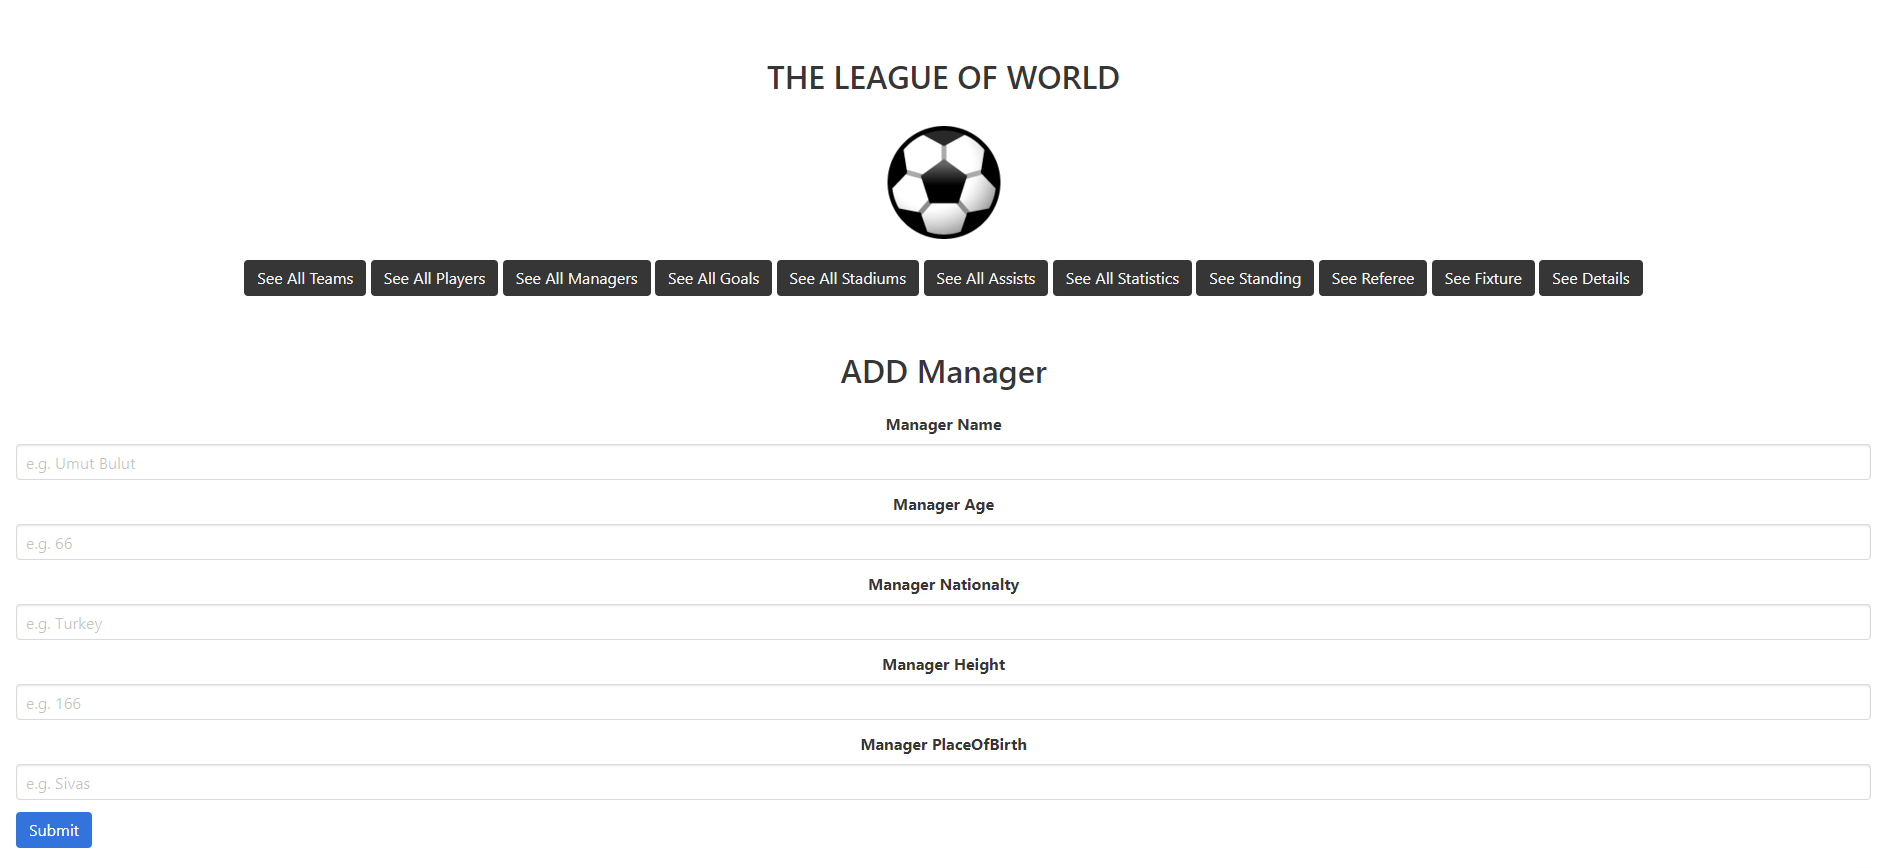
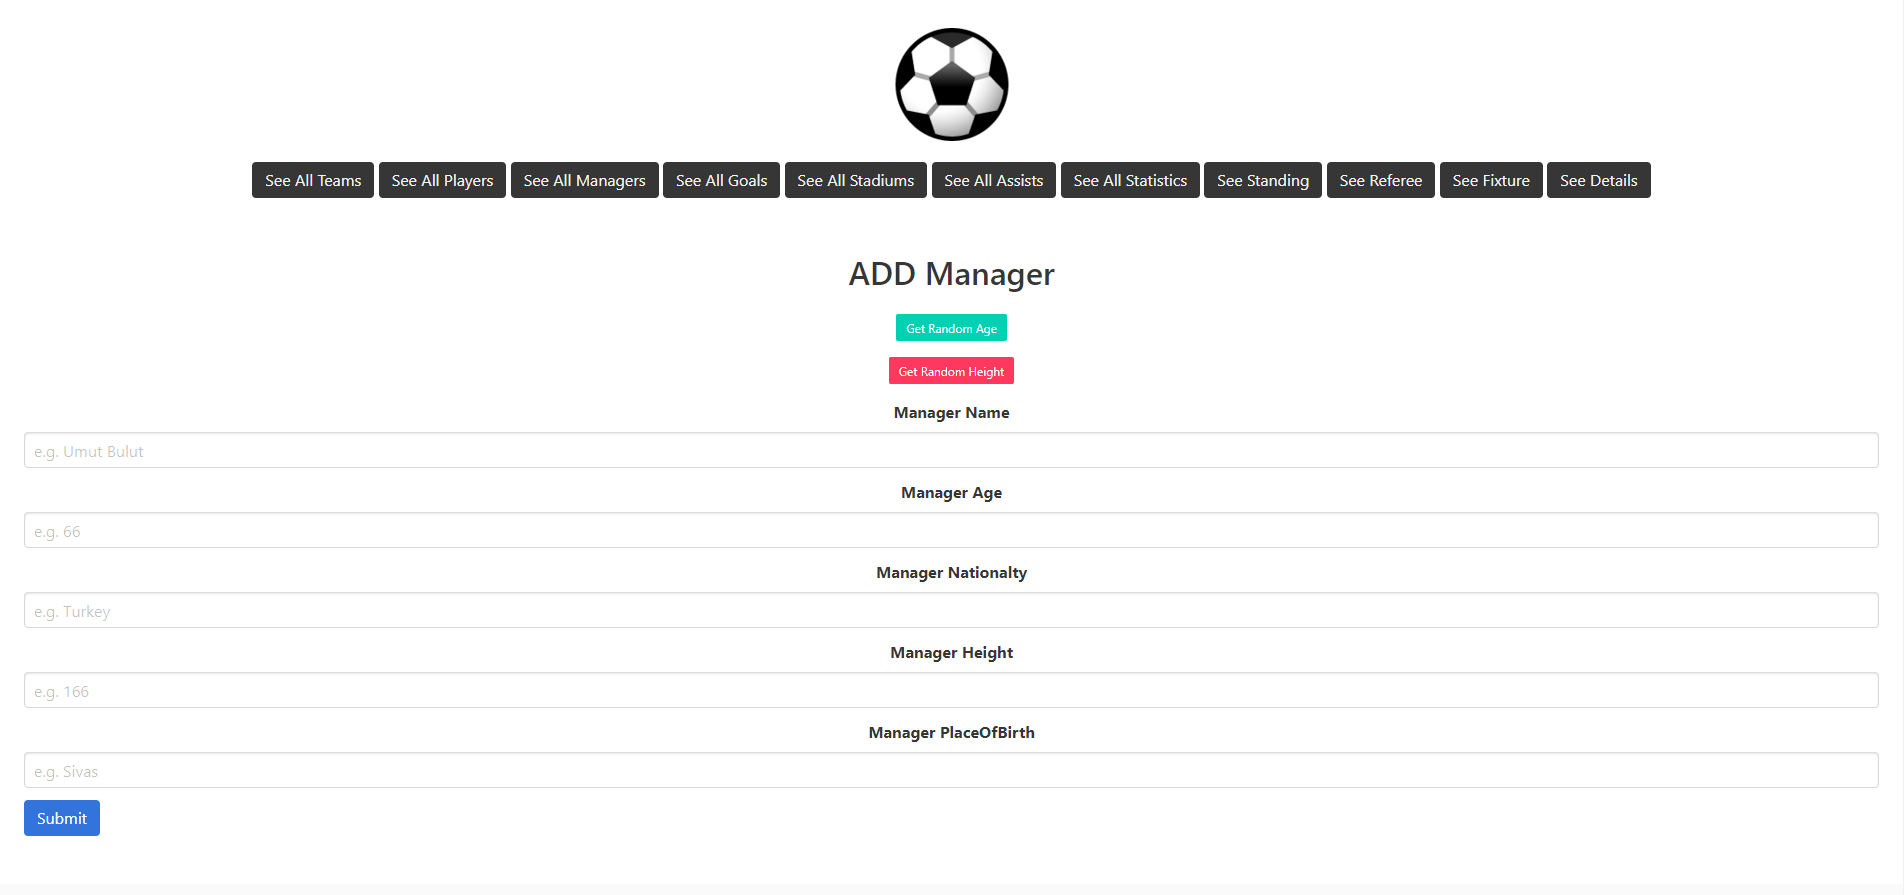
Some fixes

diff --git a/templates/add_player.html b/templates/add_player.html
@@ -16,6 +16,10 @@
 <br><br>
 <h1 class="title">ADD PLAYER</h1>
 
+<button class="button is-primary is-small" onclick="document.getElementById('Age').innerHTML = getRndInteger(15,55)">Get Random Age</button>
+<p id="Age"></p> 
+<button class="button is-danger is-small " onclick="document.getElementById('Height').innerHTML = getRndInteger(125,225)">Get Random Height</button>
+<p id="Height"></p>
 
 <form method='POST'>
 <div class="field">
@@ -79,4 +83,11 @@
   </div>
 </div>
 </form>
+
+
+<script>
+  function getRndInteger(min, max) {
+    return Math.floor(Math.random() * (max - min + 1) ) + min;
+  }
+  </script>
 {% endblock %}

diff --git a/templates/add_manager.html b/templates/add_manager.html
@@ -16,6 +16,10 @@
 <br><br>
 <h1 class="title">ADD Manager</h1>
 
+<button class="button is-primary is-small" onclick="document.getElementById('Age').innerHTML = getRndInteger(20,85)">Get Random Age</button>
+<p id="Age"></p> 
+<button class="button is-danger is-small " onclick="document.getElementById('Height').innerHTML = getRndInteger(125,225)">Get Random Height</button>
+<p id="Height"></p>
 
 <form method='POST'>
 <div class="field">
@@ -56,4 +60,10 @@
   </div>
 </div>
 </form>
+
+<script>
+  function getRndInteger(min, max) {
+    return Math.floor(Math.random() * (max - min + 1) ) + min;
+  }
+  </script>
 {% endblock %}
